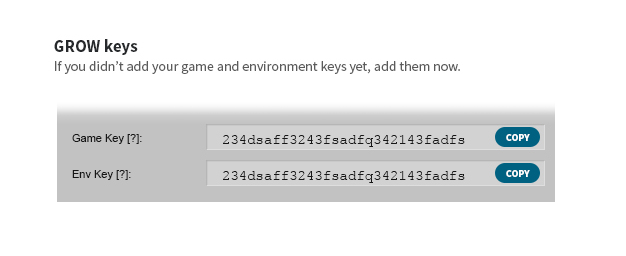
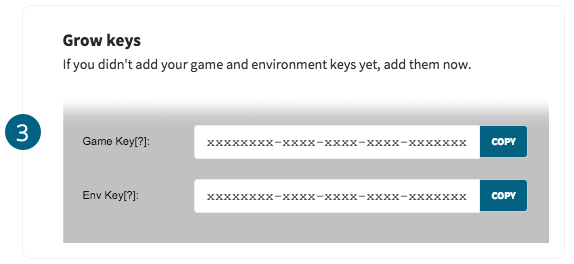
Updated dashboard keys images

diff --git a/src/documents/unity/grow/GrowCompete_GettingStarted.html.md b/src/documents/unity/grow/GrowCompete_GettingStarted.html.md
@@ -57,7 +57,7 @@ Go to the [GROW dashboard](http://dashboard.soom.la) and sign up \ login. Upon l
 
 	<div class="info-box">The "game" and "environment" keys allow GROW to distinguish between multiple environments of your games. The dashboard pre-generates two fixed environments for your game: **Production** and **Sandbox**. When you decide to publish your game, **make sure to switch the environment key to <u>Production</u>**.  You can always generate more environments:  For example - you can choose to have a playground environment for your game's beta testers which will be isolated from your production environment and will thus prevent analytics data from being mixed between the two.  Another best practice might be to have a separate environment for each version of your game.</div>
 
-	![alt text](/img/tutorial_img/unity_grow/dashboardKeys.png "Game key and Env key")
+	<img src="/img/tutorial_img/unity_grow/dashboardKeys.png" alt="Game key and Env key" style="border:0;">
 
 	c. **Choose your social platform** by toggling Facebook, twitter or Google in the settings. Follow the instructions for integrating [Facebook](/unity/profile/Profile_GettingStarted#facebook), [Twitter](/unity/profile/Profile_GettingStarted#twitter) or [Google+](/unity/profile/Profile_GettingStarted#google-).
 

diff --git a/src/documents/unity/grow/GrowUltimate_GettingStarted.html.md b/src/documents/unity/grow/GrowUltimate_GettingStarted.html.md
@@ -59,7 +59,7 @@ Go to the [GROW dashboard](http://dashboard.soom.la) and sign up \ login. Upon l
 
 	<div class="info-box">The "game" and "environment" keys allow GROW to distinguish between multiple environments of your games. The dashboard pre-generates two fixed environments for your game: **Production** and **Sandbox**. When you decide to publish your game, **make sure to switch the environment key to <u>Production</u>**.  You can always generate more environments:  For example - you can choose to have a playground environment for your game's beta testers which will be isolated from your production environment and will thus prevent analytics data from being mixed between the two.  Another best practice might be to have a separate environment for each version of your game.</div>
 
-	![alt text](/img/tutorial_img/unity_grow/dashboardKeys.png "Game key and Env key")
+	<img src="/img/tutorial_img/unity_grow/dashboardKeys.png" alt="Game key and Env key" style="border:0;">
 
 	c. **Choose your social platform** by toggling Facebook, twitter or Google in the settings. Follow the instructions for integrating [Facebook](/unity/profile/Profile_GettingStarted#facebook), [Twitter](/unity/profile/Profile_GettingStarted#twitter) or [Google+](/unity/profile/Profile_GettingStarted#google-).
 

diff --git a/src/documents/unity/grow/GrowViral_GettingStarted.html.md b/src/documents/unity/grow/GrowViral_GettingStarted.html.md
@@ -56,7 +56,7 @@ Go to the [GROW dashboard](http://dashboard.soom.la) and sign up \ login. Upon l
 
 	<div class="info-box">The "game" and "environment" keys allow GROW to distinguish between multiple environments of your games. The dashboard pre-generates two fixed environments for your game: **Production** and **Sandbox**. When you decide to publish your game, **make sure to switch the environment key to <u>Production</u>**.  You can always generate more environments:  For example - you can choose to have a playground environment for your game's beta testers which will be isolated from your production environment and will thus prevent analytics data from being mixed between the two.  Another best practice might be to have a separate environment for each version of your game.</div>
 
-	![alt text](/img/tutorial_img/unity_grow/dashboardKeys.png "Game key and Env key")
+	<img src="/img/tutorial_img/unity_grow/dashboardKeys.png" alt="Game key and Env key" style="border:0;">
 
 	c. **Choose your social platform** by toggling Facebook, twitter or Google in the settings. Follow the instructions for integrating [Facebook](/unity/profile/Profile_GettingStarted#facebook), [Twitter](/unity/profile/Profile_GettingStarted#twitter) or [Google+](/unity/profile/Profile_GettingStarted#google-).
 

diff --git a/src/documents/unity/grow/GrowSpend_GettingStarted.html.md b/src/documents/unity/grow/GrowSpend_GettingStarted.html.md
@@ -61,7 +61,7 @@ Go to the [GROW dashboard](http://dashboard.soom.la) and sign up \ login. Upon l
 
 	<div class="info-box">The "game" and "environment" keys allow GROW to distinguish between multiple environments of your games. The dashboard pre-generates two fixed environments for your game: **Production** and **Sandbox**. When you decide to publish your game, **make sure to switch the environment key to <u>Production</u>**.  You can always generate more environments:  For example - you can choose to have a playground environment for your game's beta testers which will be isolated from your production environment and will thus prevent analytics data from being mixed between the two.  Another best practice might be to have a separate environment for each version of your game.</div>
 
-	![alt text](/img/tutorial_img/unity_grow/dashboardKeys.png "Game key and Env key")
+	<img src="/img/tutorial_img/unity_grow/dashboardKeys.png" alt="Game key and Env key" style="border:0;">
 
 	c. If you're building for Android, click on the "Android Settings" option, and choose your billing provider. If you choose Google Play, you need to provide the Public Key, which is given to you from Google.
 

diff --git a/src/documents/unity/grow/GrowInsights_GettingStarted.html.md b/src/documents/unity/grow/GrowInsights_GettingStarted.html.md
@@ -50,7 +50,7 @@ Go to the [GROW dashboard](http://dashboard.soom.la) and sign up \ login. Upon l
 
 	<div class="info-box">The "game" and "environment" keys allow GROW to distinguish between multiple environments of your games. The dashboard pre-generates two fixed environments for your game: **Production** and **Sandbox**. When you decide to publish your game, **make sure to switch the environment key to <u>Production</u>**.  You can always generate more environments:  For example - you can choose to have a playground environment for your game's beta testers which will be isolated from your production environment and will thus prevent analytics data from being mixed between the two.  Another best practice might be to have a separate environment for each version of your game.</div>
 
-	![alt text](/img/tutorial_img/unity_grow/dashboardKeys.png "Game key and Env key")
+	<img src="/img/tutorial_img/unity_grow/dashboardKeys.png" alt="Game key and Env key" style="border:0;">
 
 ### Initialize modules
 

diff --git a/src/documents/cocos2dx/cpp/grow/GrowSpend_GettingStarted.html.md b/src/documents/cocos2dx/cpp/grow/GrowSpend_GettingStarted.html.md
@@ -85,7 +85,7 @@ Go to the [GROW dashboard](http://dashboard.soom.la) and sign up \ login. Upon l
       __String::create("yourEnvKey"));
   ```
 
-  ![alt text](/img/tutorial_img/cocos_grow/dashboardKeys.png "Keys")
+  <img src="/img/tutorial_img/cocos_grow/dashboardKeys.png" alt="Game key and Env key" style="border:0;">
 
 4. Initialize Sync:
 
@@ -104,7 +104,7 @@ Go to the [GROW dashboard](http://dashboard.soom.la) and sign up \ login. Upon l
 	grow::CCGrowSync::initShared(modelSync, stateSync);
 	```
 
-5. Initialize `CCSoomlaStore`:s
+5. Initialize `CCSoomlaStore`:
 
     ```cpp
     // `YourImplementationAssets` should implement the `CCStoreAssets` interface

diff --git a/src/documents/cocos2dx/cpp/grow/GrowUltimate_GettingStarted.html.md b/src/documents/cocos2dx/cpp/grow/GrowUltimate_GettingStarted.html.md
@@ -81,7 +81,7 @@ Go to the [GROW dashboard](http://dashboard.soom.la) and sign up \ login. Upon l
       __String::create("yourEnvKey"));
   ```
 
-  ![alt text](/img/tutorial_img/cocos_grow/dashboardKeys.png "Keys")
+  <img src="/img/tutorial_img/cocos_grow/dashboardKeys.png" alt="Game key and Env key" style="border:0;">
 
 4. Initialize Insights, Sync and Gifting:
 

diff --git a/src/documents/cocos2dx/cpp/grow/GrowInsights_GettingStarted.html.md b/src/documents/cocos2dx/cpp/grow/GrowInsights_GettingStarted.html.md
@@ -76,7 +76,7 @@ Go to the [GROW dashboard](http://dashboard.soom.la) and sign up \ login. Upon l
       __String::create("yourEnvKey"));
   ```
 
-  ![alt text](/img/tutorial_img/cocos_grow/dashboardKeys.png "Keys")
+  <img src="/img/tutorial_img/cocos_grow/dashboardKeys.png" alt="Game key and Env key" style="border:0;">
 
 4. Initialize Insights:
 

diff --git a/src/documents/cocos2dx/cpp/grow/GrowViral_GettingStarted.html.md b/src/documents/cocos2dx/cpp/grow/GrowViral_GettingStarted.html.md
@@ -78,7 +78,7 @@ Go to the [GROW dashboard](http://dashboard.soom.la) and sign up \ login. Upon l
       __String::create("yourEnvKey"));
   ```
 
-  ![alt text](/img/tutorial_img/cocos_grow/dashboardKeys.png "Keys")
+  <img src="/img/tutorial_img/cocos_grow/dashboardKeys.png" alt="Game key and Env key" style="border:0;">
 
 4. Initialize Gifting:
 

diff --git a/src/documents/cocos2dx/cpp/grow/GrowCompete_GettingStarted.html.md b/src/documents/cocos2dx/cpp/grow/GrowCompete_GettingStarted.html.md
@@ -79,7 +79,7 @@ Go to the [GROW dashboard](http://dashboard.soom.la) and sign up \ login. Upon l
       __String::create("yourEnvKey"));
   ```
 
-  ![alt text](/img/tutorial_img/cocos_grow/dashboardKeys.png "Keys")
+  <img src="/img/tutorial_img/cocos_grow/dashboardKeys.png" alt="Game key and Env key" style="border:0;">
 
 4. Initialize Sync:
 
